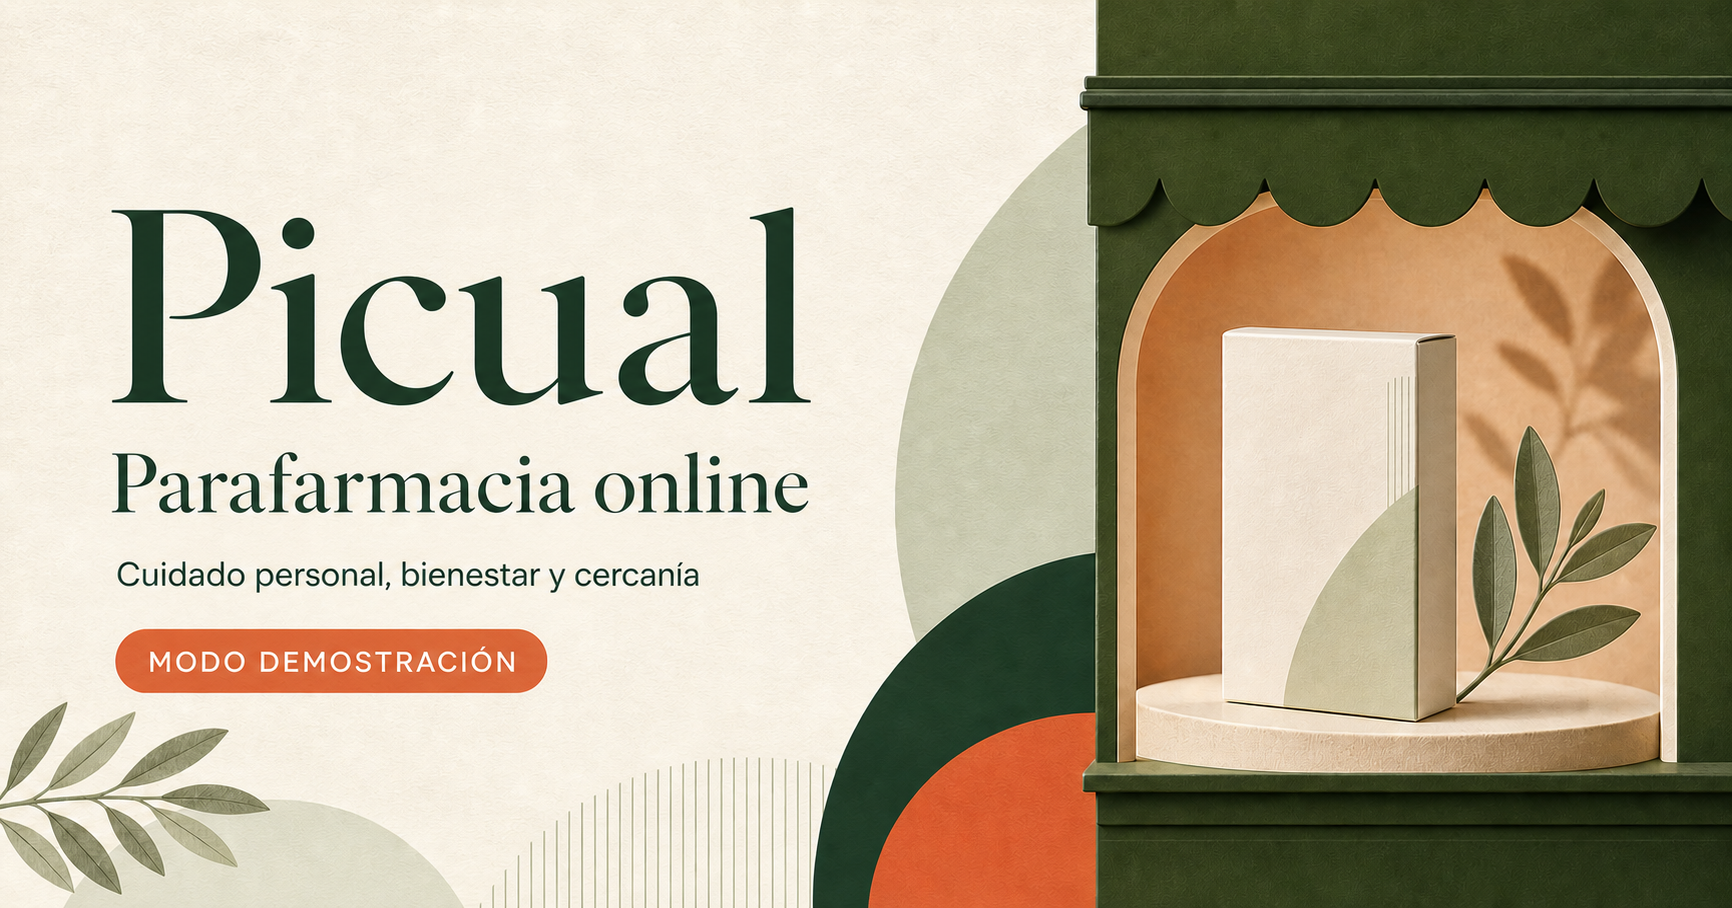
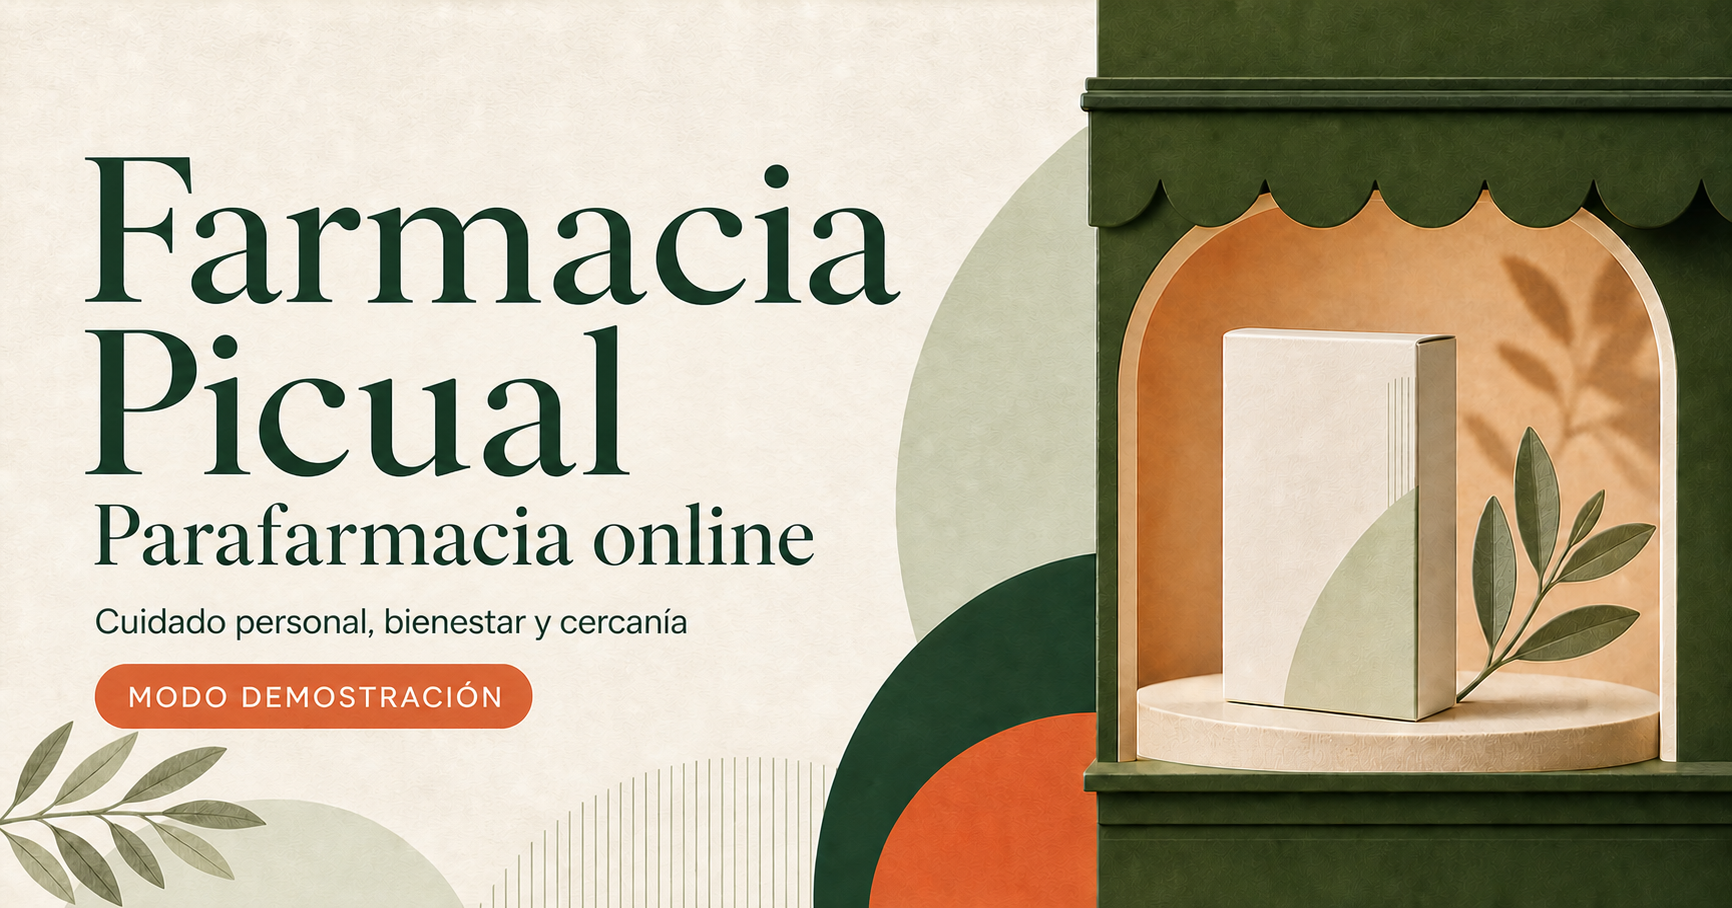
feat: enable Shopify client credentials

diff --git a/src/server/shopify/admin-api.ts b/src/server/shopify/admin-api.ts
@@ -12,16 +12,118 @@ export class ShopifyApiError extends Error {
   }
 }
 
+interface AccessTokenResponse {
+  access_token?: string;
+  expires_in?: number;
+}
+
+let cachedAccessToken:
+  | { storeDomain: string; token: string; expiresAt: number }
+  | undefined;
+let pendingAccessToken: Promise<string> | undefined;
+
+async function requestClientCredentialsToken(): Promise<string> {
+  const config = getShopifyConfiguration();
+  if (
+    !config.configured ||
+    !config.storeDomain ||
+    !config.clientId ||
+    !config.clientSecret
+  ) {
+    throw new ShopifyApiError(
+      `Shopify no está configurado. Falta: ${config.missing.join(", ")}.`,
+    );
+  }
+
+  const controller = new AbortController();
+  const timeout = setTimeout(() => controller.abort(), 15_000);
+  try {
+    const response = await fetch(
+      `https://${config.storeDomain}/admin/oauth/access_token`,
+      {
+        method: "POST",
+        headers: { "content-type": "application/x-www-form-urlencoded" },
+        body: new URLSearchParams({
+          grant_type: "client_credentials",
+          client_id: config.clientId,
+          client_secret: config.clientSecret,
+        }),
+        signal: controller.signal,
+      },
+    );
+    const rawBody = await response.text();
+    let body: AccessTokenResponse | null = null;
+    try {
+      body = JSON.parse(rawBody) as AccessTokenResponse;
+    } catch {
+      body = null;
+    }
+    if (!response.ok || !body?.access_token) {
+      if (rawBody.includes("app_not_installed")) {
+        throw new ShopifyApiError(
+          "La aplicación todavía no está instalada en esta tienda Shopify.",
+        );
+      }
+      if (rawBody.includes("shop_not_permitted")) {
+        throw new ShopifyApiError(
+          "La aplicación y la tienda deben pertenecer a la misma organización de Shopify.",
+        );
+      }
+      throw new ShopifyApiError(
+        response.status === 401 || response.status === 403
+          ? "Shopify ha rechazado las credenciales de la aplicación."
+          : "No se pudo obtener el acceso temporal de Shopify.",
+      );
+    }
+
+    const expiresIn = Math.max(60, body.expires_in ?? 86_399);
+    cachedAccessToken = {
+      storeDomain: config.storeDomain,
+      token: body.access_token,
+      expiresAt: Date.now() + expiresIn * 1000,
+    };
+    return body.access_token;
+  } catch (error) {
+    if (error instanceof ShopifyApiError) throw error;
+    if (error instanceof Error && error.name === "AbortError") {
+      throw new ShopifyApiError(
+        "Shopify tardó demasiado en conceder el acceso.",
+      );
+    }
+    throw new ShopifyApiError("No se pudo autenticar la aplicación en Shopify.");
+  } finally {
+    clearTimeout(timeout);
+  }
+}
+
+export async function getShopifyAdminAccessToken(): Promise<string> {
+  const config = getShopifyConfiguration();
+  if (config.adminAccessToken) return config.adminAccessToken;
+  if (
+    cachedAccessToken &&
+    cachedAccessToken.storeDomain === config.storeDomain &&
+    cachedAccessToken.expiresAt - Date.now() > 60_000
+  ) {
+    return cachedAccessToken.token;
+  }
+
+  pendingAccessToken ??= requestClientCredentialsToken().finally(() => {
+    pendingAccessToken = undefined;
+  });
+  return pendingAccessToken;
+}
+
 export async function shopifyAdminGraphql<T>(
   query: string,
   variables?: Record<string, unknown>,
 ): Promise<T> {
   const config = getShopifyConfiguration();
-  if (!config.configured || !config.storeDomain || !config.adminAccessToken) {
+  if (!config.configured || !config.storeDomain) {
     throw new ShopifyApiError(
       `Shopify no está configurado. Falta: ${config.missing.join(", ")}.`,
     );
   }
+  const accessToken = await getShopifyAdminAccessToken();
 
   const controller = new AbortController();
   const timeout = setTimeout(() => controller.abort(), 15_000);
@@ -32,7 +134,7 @@ export async function shopifyAdminGraphql<T>(
         method: "POST",
         headers: {
           "content-type": "application/json",
-          "x-shopify-access-token": config.adminAccessToken,
+          "x-shopify-access-token": accessToken,
         },
         body: JSON.stringify({ query, variables }),
         signal: controller.signal,

diff --git a/src/server/shopify/admin-api.test.ts b/src/server/shopify/admin-api.test.ts
@@ -1,0 +1,71 @@
+import { afterEach, beforeEach, describe, expect, it, vi } from "vitest";
+
+const originalEnvironment = {
+  domain: process.env.SHOPIFY_STORE_DOMAIN,
+  token: process.env.SHOPIFY_ADMIN_ACCESS_TOKEN,
+  clientId: process.env.SHOPIFY_CLIENT_ID,
+  clientSecret: process.env.SHOPIFY_CLIENT_SECRET,
+};
+
+function restoreEnvironment(key: string, value: string | undefined) {
+  if (value === undefined) delete process.env[key];
+  else process.env[key] = value;
+}
+
+beforeEach(() => {
+  vi.resetModules();
+  process.env.SHOPIFY_STORE_DOMAIN = "99vh1p-pz.myshopify.com";
+  process.env.SHOPIFY_ADMIN_ACCESS_TOKEN = "";
+  process.env.SHOPIFY_CLIENT_ID = "test-client";
+  process.env.SHOPIFY_CLIENT_SECRET = "test-secret";
+});
+
+afterEach(() => {
+  vi.unstubAllGlobals();
+  restoreEnvironment("SHOPIFY_STORE_DOMAIN", originalEnvironment.domain);
+  restoreEnvironment("SHOPIFY_ADMIN_ACCESS_TOKEN", originalEnvironment.token);
+  restoreEnvironment("SHOPIFY_CLIENT_ID", originalEnvironment.clientId);
+  restoreEnvironment("SHOPIFY_CLIENT_SECRET", originalEnvironment.clientSecret);
+});
+
+describe("Shopify client credentials", () => {
+  it("requests one expiring token and reuses it while it remains valid", async () => {
+    const fetchMock = vi.fn().mockResolvedValue({
+      ok: true,
+      status: 200,
+      text: async () =>
+        JSON.stringify({ access_token: "temporary-token", expires_in: 86_399 }),
+    });
+    vi.stubGlobal("fetch", fetchMock);
+
+    const { getShopifyAdminAccessToken } = await import(
+      "@/server/shopify/admin-api"
+    );
+    await expect(getShopifyAdminAccessToken()).resolves.toBe("temporary-token");
+    await expect(getShopifyAdminAccessToken()).resolves.toBe("temporary-token");
+
+    expect(fetchMock).toHaveBeenCalledTimes(1);
+    const request = fetchMock.mock.calls[0]?.[1] as { body?: URLSearchParams };
+    expect(request.body?.get("grant_type")).toBe("client_credentials");
+    expect(request.body?.get("client_id")).toBe("test-client");
+    expect(request.body?.get("client_secret")).toBe("test-secret");
+  });
+
+  it("explains when the app has not been installed", async () => {
+    vi.stubGlobal(
+      "fetch",
+      vi.fn().mockResolvedValue({
+        ok: false,
+        status: 400,
+        text: async () => "Oauth error app_not_installed",
+      }),
+    );
+
+    const { getShopifyAdminAccessToken } = await import(
+      "@/server/shopify/admin-api"
+    );
+    await expect(getShopifyAdminAccessToken()).rejects.toThrow(
+      "La aplicación todavía no está instalada",
+    );
+  });
+});

diff --git a/src/server/shopify/config.test.ts b/src/server/shopify/config.test.ts
@@ -4,10 +4,14 @@ import { getPublicShopifyStatus, normalizeShopifyStoreDomain } from "@/server/sh
 
 const originalDomain = process.env.SHOPIFY_STORE_DOMAIN;
 const originalToken = process.env.SHOPIFY_ADMIN_ACCESS_TOKEN;
+const originalClientId = process.env.SHOPIFY_CLIENT_ID;
+const originalClientSecret = process.env.SHOPIFY_CLIENT_SECRET;
 
 afterEach(() => {
   process.env.SHOPIFY_STORE_DOMAIN = originalDomain;
   process.env.SHOPIFY_ADMIN_ACCESS_TOKEN = originalToken;
+  process.env.SHOPIFY_CLIENT_ID = originalClientId;
+  process.env.SHOPIFY_CLIENT_SECRET = originalClientSecret;
 });
 
 describe("Shopify configuration", () => {
@@ -27,5 +31,16 @@ describe("Shopify configuration", () => {
     const publicStatus = getPublicShopifyStatus();
     expect(publicStatus.configured).toBe(true);
     expect(JSON.stringify(publicStatus)).not.toContain("shpat_secret");
+  });
+
+  it("accepts client credentials without exposing either value", () => {
+    process.env.SHOPIFY_STORE_DOMAIN = "99vh1p-pz.myshopify.com";
+    process.env.SHOPIFY_ADMIN_ACCESS_TOKEN = "";
+    process.env.SHOPIFY_CLIENT_ID = "client-id-private";
+    process.env.SHOPIFY_CLIENT_SECRET = "client-secret-private";
+    const publicStatus = getPublicShopifyStatus();
+    expect(publicStatus.configured).toBe(true);
+    expect(JSON.stringify(publicStatus)).not.toContain("client-id-private");
+    expect(JSON.stringify(publicStatus)).not.toContain("client-secret-private");
   });
 });

diff --git a/src/server/shopify/config.ts b/src/server/shopify/config.ts
@@ -15,22 +15,32 @@ export function normalizeShopifyStoreDomain(value: string): string | null {
 
 export function getShopifyConfiguration(): ShopifyConfigurationStatus & {
   adminAccessToken?: string;
+  clientId?: string;
+  clientSecret?: string;
   webhookSecret?: string;
 } {
   const rawDomain = process.env.SHOPIFY_STORE_DOMAIN ?? "";
   const storeDomain = normalizeShopifyStoreDomain(rawDomain) ?? undefined;
   const adminAccessToken = process.env.SHOPIFY_ADMIN_ACCESS_TOKEN?.trim();
-  const webhookSecret = process.env.SHOPIFY_WEBHOOK_SECRET?.trim();
+  const clientId = process.env.SHOPIFY_CLIENT_ID?.trim();
+  const clientSecret = process.env.SHOPIFY_CLIENT_SECRET?.trim();
+  const webhookSecret =
+    process.env.SHOPIFY_WEBHOOK_SECRET?.trim() || clientSecret;
   const apiVersion = process.env.SHOPIFY_API_VERSION?.trim() || DEFAULT_API_VERSION;
   const missing: string[] = [];
 
   if (!storeDomain) missing.push("Dominio de la tienda");
-  if (!adminAccessToken) missing.push("Token de Admin API");
+  if (!adminAccessToken) {
+    if (!clientId) missing.push("Client ID");
+    if (!clientSecret) missing.push("Client secret");
+  }
 
   return {
     configured: missing.length === 0,
     storeDomain,
     adminAccessToken,
+    clientId,
+    clientSecret,
     webhookSecret,
     apiVersion,
     missing,

diff --git a/src/lib/config.ts b/src/lib/config.ts
@@ -1,5 +1,5 @@
 export const pharmacyConfig = {
-  name: process.env.NEXT_PUBLIC_PHARMACY_NAME || "Picual",
+  name: process.env.NEXT_PUBLIC_PHARMACY_NAME || "Farmacia Picual",
   legalName: process.env.NEXT_PUBLIC_PHARMACY_LEGAL_NAME || "",
   address:
     process.env.NEXT_PUBLIC_PHARMACY_ADDRESS || "Sevilla — dirección pendiente",
